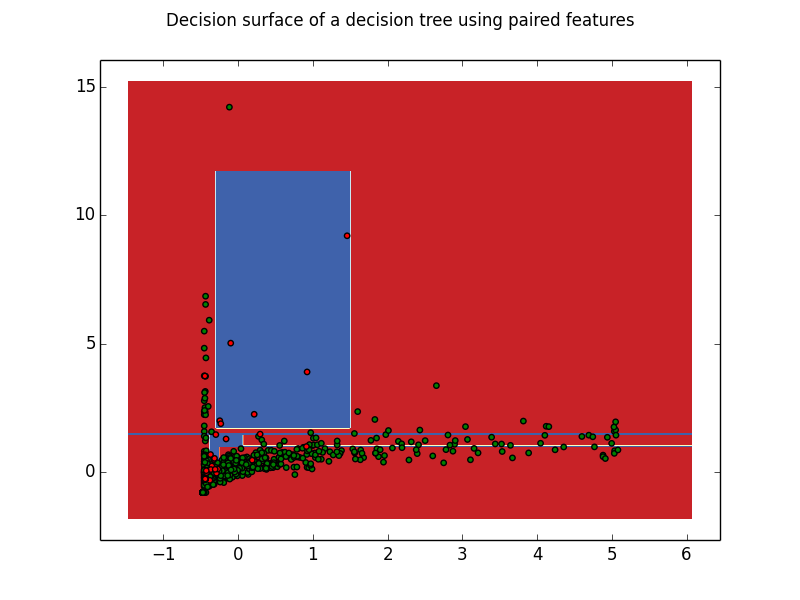
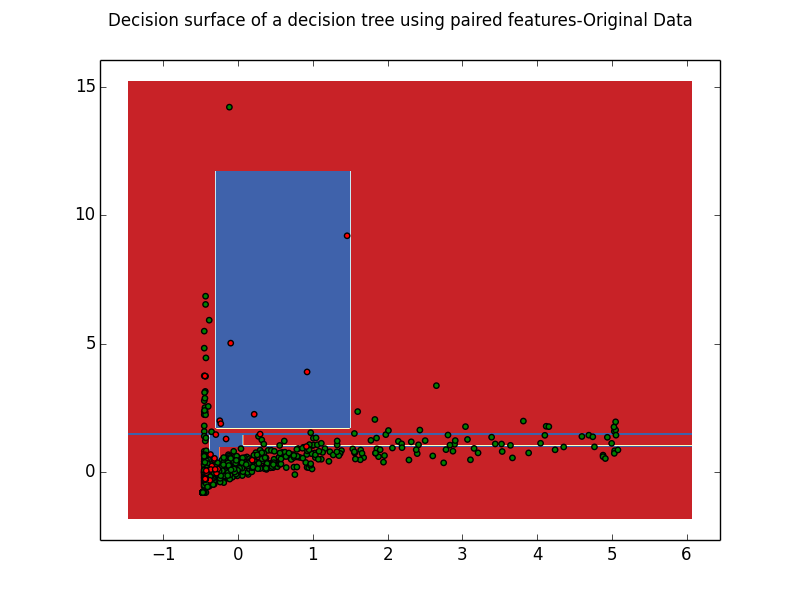
updates

Changed region(s): [[0.125, 0.0, 0.875, 0.06]]

diff --git a/code/smote.py b/code/smote.py
@@ -3,7 +3,6 @@
 from sys import *
 from os.path import *
 
-import time
 from sklearn.tree import DecisionTreeClassifier
 from sklearn.neighbors import NearestNeighbors
 import numpy as np
@@ -40,12 +39,20 @@ def plot(clf, X, Y, id):
       idx = np.where(Y == i)
       plt.scatter(X[idx, 0], X[idx, 1], c=color, cmap=plt.cm.RdYlBu, edgecolor='black', s=15)
 
-    plt.suptitle("Decision surface of a decision tree using paired features")
+    if id is 'a':
+        method = 'Original Data'
+    elif id is 'b':
+        method = 'Over-Sampling with Replacement'
+    elif id is 'c':
+        method = 'SMOTE'
+
+    plt.suptitle("Decision surface of a decision tree using paired features-"+method)
     plt.legend(loc='lower right', borderpad=0, handletextpad=0)
     plt.axis("tight")
     # plt.show
     name = id+'.png'
     plt.savefig(name)
+    plt.close()
 
 
 def overReplacement(data, percent):
